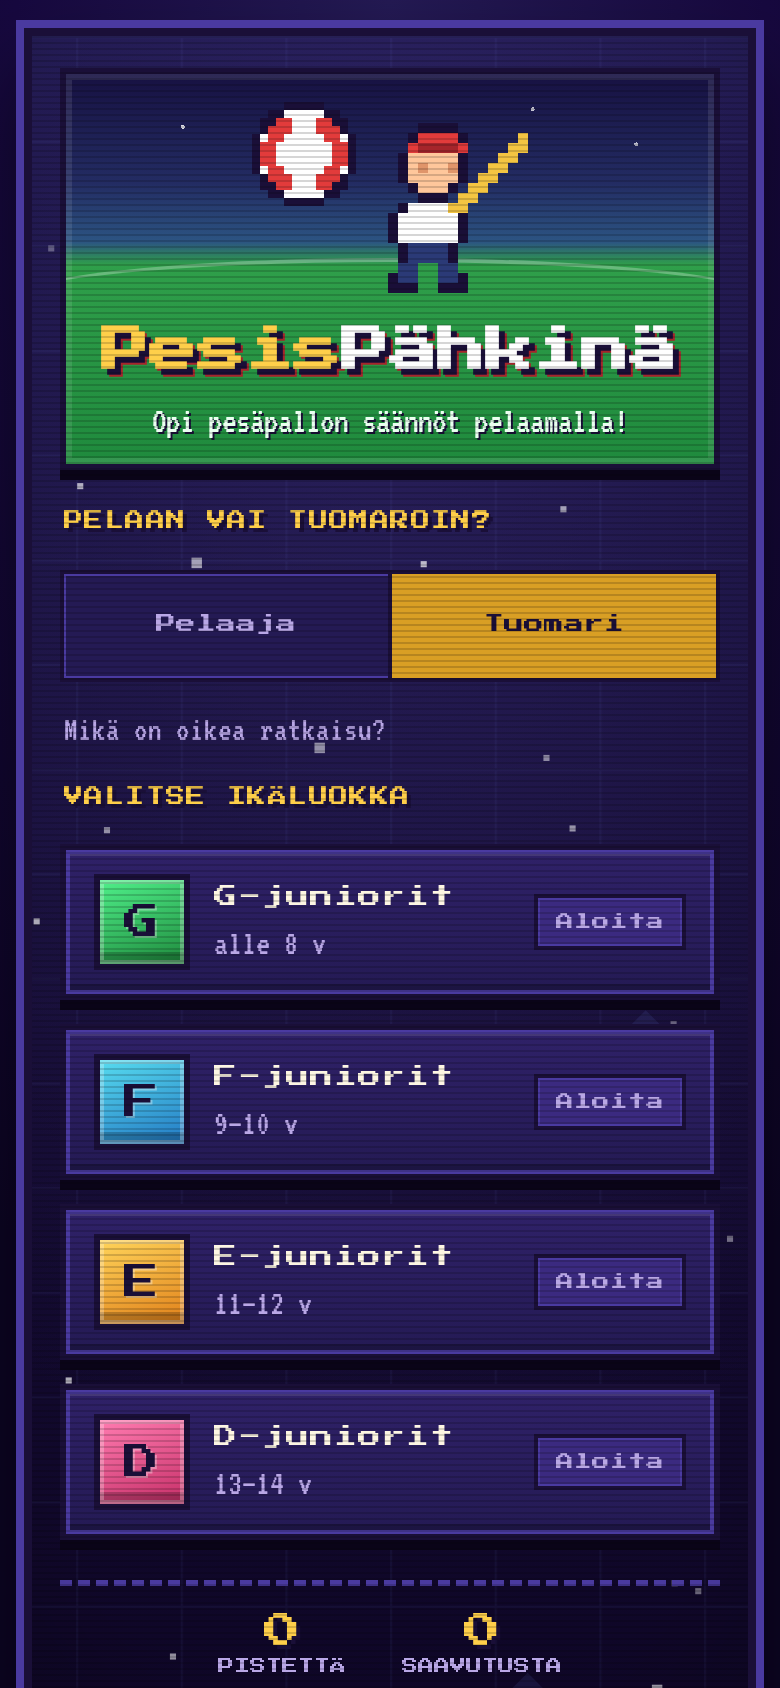
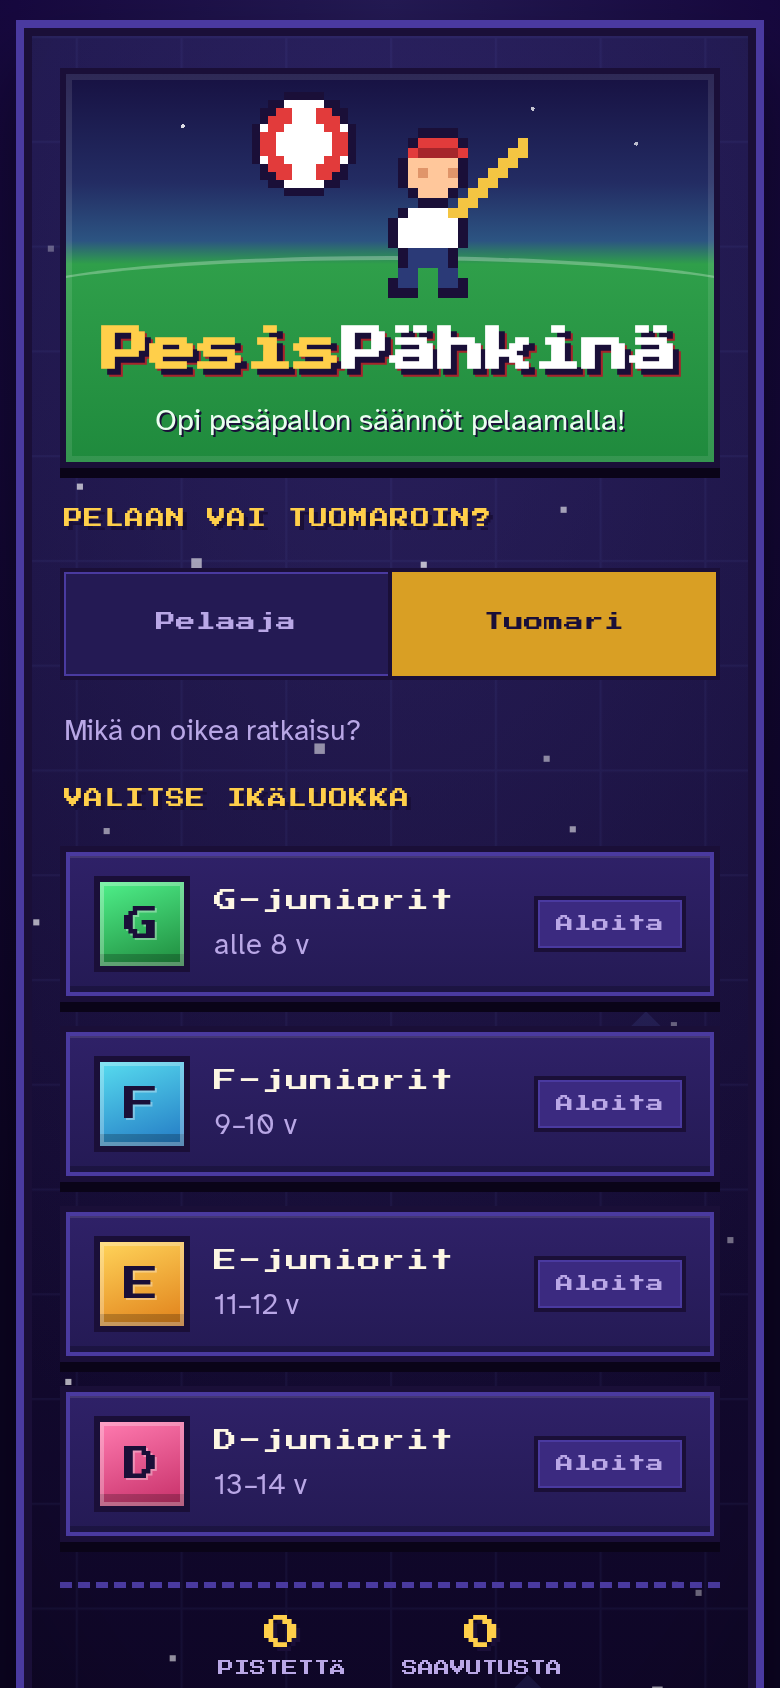
feat: luettavampi fontti ja kysymysruutu mahtumaan pienille näytöille
- CRT-scanlinet pois: viivoittivat myös tekstin. Vinjetti jää.
- Leipäteksti VT323 → Atkinson Hyperlegible (kysymys lihavoitu, koot
  sovitettu). Otsikot/napit pysyvät Press Start 2P:llä.
- Jatka + Lähde omaksi sticky-riviksi ruudun alalaitaan; Lähde 🔍-ikoni-
  napiksi. Kehys overflow: clip, jotta sticky toimii.
- Matalille näytöille (max-height 760px) tiiviimmät välit; 100dvh.
- README-kuvakaappaukset päivitetty.

375×667: kysymysruutu vastauksen jälkeen 757 → 667 px, Jatka aina näkyvissä.

diff --git a/src/styles.css b/src/styles.css
@@ -25,7 +25,7 @@
 
   --touch: 52px;
   --pixel: 'Press Start 2P', monospace;
-  --body: 'VT323', 'Courier New', monospace;
+  --body: 'Atkinson Hyperlegible', system-ui, sans-serif;
   color-scheme: dark;
 }
 
@@ -71,6 +71,7 @@ svg {
   width: 100%;
   max-width: 480px;
   min-height: min(760px, calc(100vh - 30px));
+  min-height: min(760px, calc(100dvh - 30px));
   background: var(--bg);
   border: 4px solid var(--ink);
   box-shadow:
@@ -79,6 +80,7 @@ svg {
     0 22px 40px rgba(0, 0, 0, 0.6);
   padding: 16px 14px 20px;
   overflow: hidden;
+  overflow: clip;
 }
 
 /* Geneerinen retro-tausta täyttää kehyksen paneelien takana */
@@ -91,21 +93,14 @@ svg {
   pointer-events: none;
 }
 
-/* CRT-scanlinet + vinjetti koko kaapin päällä */
+/* Vinjetti koko kaapin päällä. CRT-scanlinet poistettu: ne viivoittivat tekstin
+   ja heikensivät luettavuutta pienillä näytöillä. */
 .app__frame::after {
   content: '';
   position: absolute;
   inset: 0;
   pointer-events: none;
-  background:
-    repeating-linear-gradient(
-      0deg,
-      rgba(0, 0, 0, 0.16) 0px,
-      rgba(0, 0, 0, 0.16) 1px,
-      transparent 1px,
-      transparent 3px
-    ),
-    radial-gradient(120% 100% at 50% 40%, transparent 55%, rgba(0, 0, 0, 0.5) 100%);
+  background: radial-gradient(120% 100% at 50% 40%, transparent 55%, rgba(0, 0, 0, 0.5) 100%);
   z-index: 30;
   mix-blend-mode: multiply;
 }
@@ -228,7 +223,7 @@ svg {
   z-index: 2;
   margin: 10px 0 2px;
   font-family: var(--body);
-  font-size: 1.15rem;
+  font-size: 0.95rem;
   color: #eafff0;
   text-shadow: 1px 1px 0 var(--ink);
 }
@@ -324,15 +319,15 @@ button.card:active {
 }
 .card__meta {
   color: var(--muted);
-  font-size: 1.1rem;
-  line-height: 1.15;
+  font-size: 0.92rem;
+  line-height: 1.35;
 }
 .card__progress {
   display: flex;
   align-items: center;
   gap: 6px;
   color: var(--gold);
-  font-size: 1.05rem;
+  font-size: 0.9rem;
 }
 .card__status {
   display: flex;
@@ -402,7 +397,7 @@ button.card:active {
 .segmented__hint {
   margin: 0 2px;
   font-family: var(--body);
-  font-size: 1.05rem;
+  font-size: 0.9rem;
   color: var(--muted);
 }
 
@@ -526,7 +521,7 @@ button.card:active {
 .topbar__meta {
   color: var(--muted);
   font-family: var(--body);
-  font-size: 1.1rem;
+  font-size: 0.92rem;
 }
 
 /* ---------- Round ---------- */
@@ -592,9 +587,10 @@ button.card:active {
 .question__text {
   margin: 0;
   font-family: var(--body);
-  font-size: 1.55rem;
-  line-height: 1.15;
+  font-size: 1.2rem;
+  line-height: 1.35;
   color: var(--text);
+  font-weight: 700;
 }
 .options {
   display: flex;
@@ -617,8 +613,8 @@ button.card:active {
     inset 0 3px 0 rgba(255, 255, 255, 0.12);
   color: var(--text);
   font-family: var(--body);
-  font-size: 1.35rem;
-  line-height: 1.1;
+  font-size: 1.05rem;
+  line-height: 1.35;
   cursor: pointer;
   transition: transform 0.05s steps(2), background 0.05s steps(2);
 }
@@ -695,8 +691,23 @@ button.card:active {
 .reveal__explanation {
   margin: 0;
   color: #e7ddff;
-  font-size: 1.3rem;
-  line-height: 1.15;
+  font-size: 1.02rem;
+  line-height: 1.35;
+}
+
+/* Jatka + lähde: pysyy aina näkyvissä ruudun alalaidassa. */
+.round-actions {
+  position: sticky;
+  bottom: 0;
+  z-index: 2;
+  display: flex;
+  gap: 10px;
+  margin: 0 -14px -20px;
+  padding: 10px 14px max(env(safe-area-inset-bottom), 14px);
+  background: linear-gradient(180deg, rgba(13, 5, 36, 0) 0%, var(--bg) 22%);
+}
+.round-actions > .btn--primary {
+  flex: 1;
 }
 
 /* ---------- Result ---------- */
@@ -728,7 +739,7 @@ button.card:active {
 .result__hint {
   margin: 0;
   color: var(--cyan);
-  font-size: 1.3rem;
+  font-size: 1.05rem;
 }
 .result__actions {
   display: flex;
@@ -743,11 +754,11 @@ button.card:active {
   border: 3px solid var(--ink);
   box-shadow: 0 4px 0 0 var(--shadow);
   font-family: var(--body);
-  font-size: 1.3rem;
+  font-size: 1.05rem;
   display: flex;
   align-items: center;
   gap: 10px;
-  line-height: 1.15;
+  line-height: 1.35;
 }
 .banner--unlock {
   background: var(--panel-3);
@@ -801,7 +812,7 @@ button.card:active {
 }
 .achievement__text span {
   color: var(--muted);
-  font-size: 1.05rem;
+  font-size: 0.9rem;
   line-height: 1.05;
 }
 
@@ -831,7 +842,7 @@ button.card:active {
 .toggle__meta {
   display: block;
   color: var(--muted);
-  font-size: 1.05rem;
+  font-size: 0.9rem;
   margin-top: 4px;
 }
 .toggle input {
@@ -852,8 +863,8 @@ button.card:active {
 .danger__confirm p {
   margin: 0 0 12px;
   color: #ffe1b0;
-  font-size: 1.2rem;
-  line-height: 1.1;
+  font-size: 1rem;
+  line-height: 1.35;
 }
 .danger__buttons {
   display: flex;
@@ -899,9 +910,40 @@ button.card:active {
 }
 .modal__text {
   margin: 0 0 16px;
-  font-size: 1.2rem;
+  font-size: 1rem;
   line-height: 1.3;
   color: var(--text);
+}
+
+/* ---------- Matalat näytöt (iPhone SE ym.) ---------- */
+@media (max-height: 760px) {
+  .app {
+    padding: max(env(safe-area-inset-top), 6px) 6px 6px;
+  }
+  .app__frame {
+    padding: 10px 10px 14px;
+  }
+  .screen {
+    gap: 10px;
+  }
+  .question {
+    padding: 12px 12px;
+  }
+  .option {
+    padding: 9px 12px;
+  }
+  .options {
+    gap: 8px;
+  }
+  .reveal {
+    padding: 10px 12px;
+    gap: 6px;
+  }
+  .round-actions {
+    margin: 0 -10px -14px;
+    padding-left: 10px;
+    padding-right: 10px;
+  }
 }
 
 /* ---------- Wider screens ---------- */
@@ -916,7 +958,7 @@ button.card:active {
 
 .privacy-note {
   margin: 4px 2px 8px;
-  font-size: 1.05rem;
+  font-size: 0.9rem;
   line-height: 1.25;
   color: #cfe3d6;
 }

diff --git a/src/ui/RoundScreen.tsx b/src/ui/RoundScreen.tsx
@@ -90,8 +90,13 @@ export function RoundScreen() {
         <div className={'reveal' + (lastAnswer.correct ? ' reveal--ok' : ' reveal--no')}>
           <p className="reveal__headline">{comment}</p>
           <p className="reveal__explanation">{q.selitys}</p>
+        </div>
+      )}
+
+      {revealed && lastAnswer && (
+        <div className="round-actions">
           <QuestionSourceButton lahde={q.lahde} tarkistettu={q.tarkistettu} />
-          <button type="button" className="btn btn--primary btn--wide" onClick={advance}>
+          <button type="button" className="btn btn--primary" onClick={advance}>
             {isLast ? 'Näytä tulokset' : 'Jatka'}
           </button>
         </div>

diff --git a/src/main.tsx b/src/main.tsx
@@ -4,8 +4,10 @@ import { GameProvider } from './state/GameContext';
 import App from './App';
 import '@fontsource/press-start-2p/latin.css';
 import '@fontsource/press-start-2p/latin-ext.css';
-import '@fontsource/vt323/latin.css';
-import '@fontsource/vt323/latin-ext.css';
+import '@fontsource/atkinson-hyperlegible/latin-400.css';
+import '@fontsource/atkinson-hyperlegible/latin-ext-400.css';
+import '@fontsource/atkinson-hyperlegible/latin-700.css';
+import '@fontsource/atkinson-hyperlegible/latin-ext-700.css';
 import './styles.css';
 import { installUmami } from './analytics/umami';
 

diff --git a/src/ui/QuestionSourceButton.tsx b/src/ui/QuestionSourceButton.tsx
@@ -14,8 +14,14 @@ export function QuestionSourceButton({ lahde, tarkistettu }: QuestionSourceButto
 
   return (
     <>
-      <button type="button" className="btn btn--ghost btn--small" onClick={() => setOpen(true)}>
-        🔍 Lähde
+      <button
+        type="button"
+        className="btn btn--ghost btn--icon"
+        onClick={() => setOpen(true)}
+        aria-label="Lähde"
+        title="Lähde"
+      >
+        🔍
       </button>
       {open && (
         <div className="modal-backdrop" role="presentation" onClick={() => setOpen(false)}>
